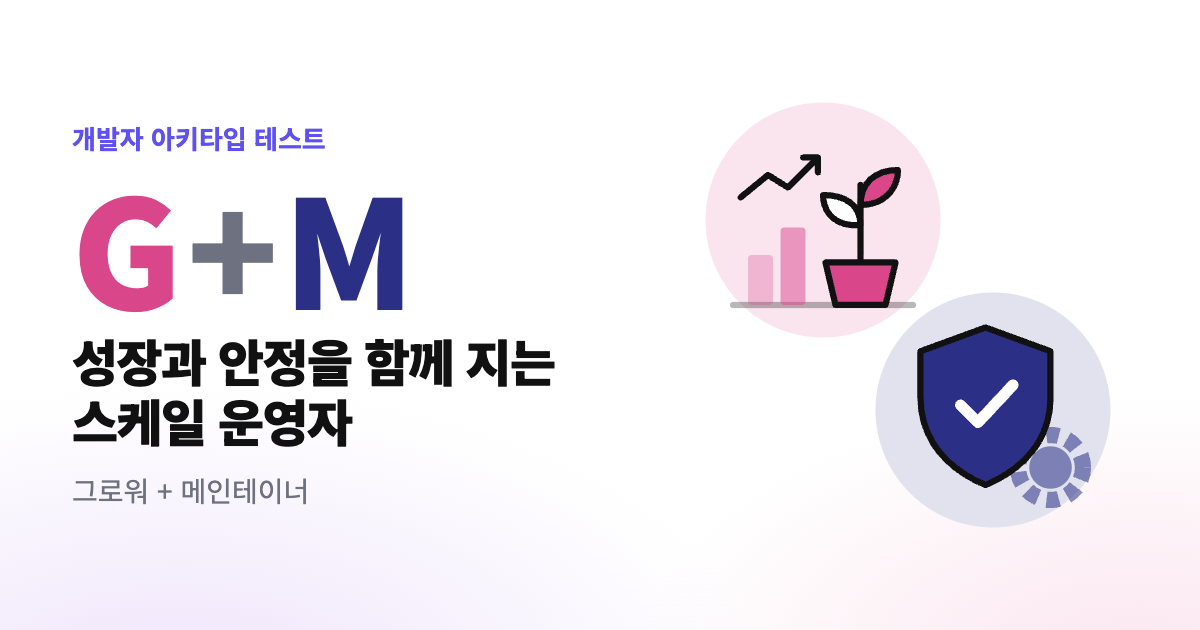
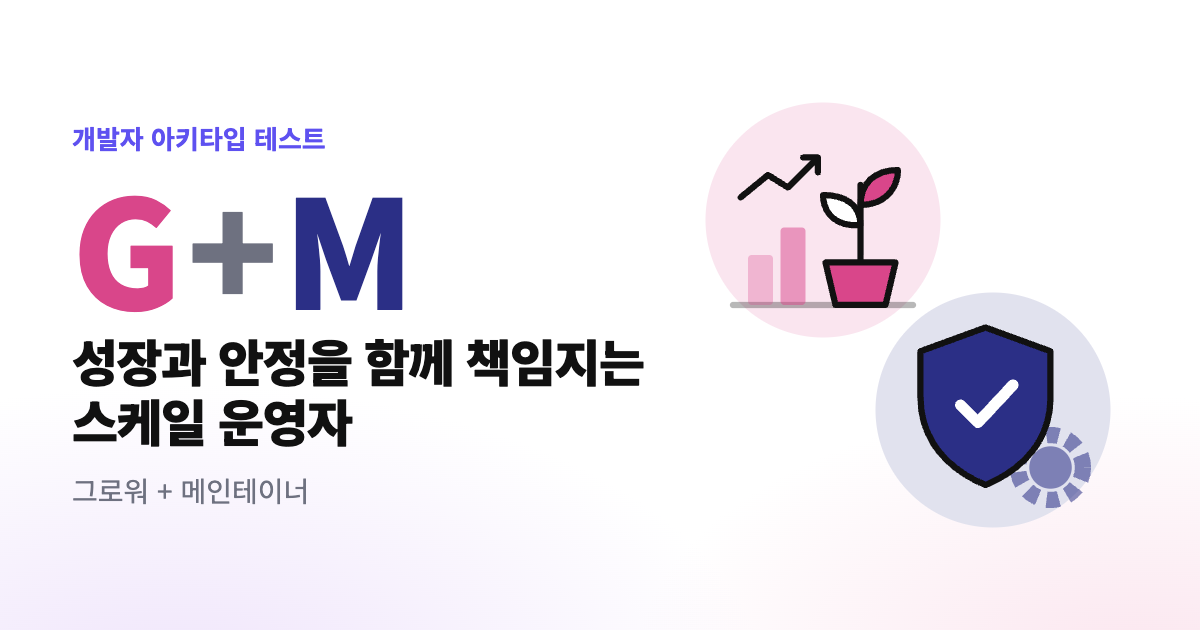
결과 화면 문구 교정

Changed region(s): [[0.37, 0.5429, 0.555, 0.6333]]

diff --git a/index.html b/index.html
@@ -306,17 +306,17 @@ const TYPES = {
       'AI로 프로토타입을 만드는 시간이 며칠에서 몇 시간으로 줄면서, 이 역할의 가치는 "얼마나 빨리 만드나"에서 "무엇을 시도해 볼 만하다고 고르나"로 옮겨 가고 있습니다.'
     ],
     sig: ['토론하기 전에 먼저 만들어서 보여 줍니다', '한 번에 여러 방향을 동시에 시도합니다', '끝낼 때보다 시작할 때 에너지가 큽니다', '새 도구나 기술이 나오면 일단 써 봅니다', '버려지는 실험에 미련이 적고, 아이디어를 내려놓는 데 자존심을 걸지 않습니다'],
-    moments: ['방향이 정해지지 않아 회의가 제자리를 맴돌 때', '새 제품이나 새 시장을 탐색하는 초기 단계', '해커톤처럼 짧은 시간에 많이 시도해야 할 때'],
+    moments: ['방향이 정해지지 않아 회의가 제자리를 맴돌 때', '새 제품이나 새 시장을 탐색하는 초기 단계일 때', '해커톤처럼 짧은 시간에 많이 시도해야 할 때'],
     strengths: ['불확실한 것을 빠르게 확인할 수 있는 것으로 바꿉니다', '팀이 생각하지 못한 선택지를 만들어 냅니다', '추상적인 토론을 구체적인 피드백으로 바꿉니다'],
     risks: ['좋은 아이디어도 끝까지 가져가지 못하고 다음 실험으로 넘어가기 쉽습니다', '만들기 쉬워진 만큼 실험만 쌓이고, 무엇을 배웠는지는 남지 않을 수 있습니다', '자리 잡은 제품에서는 불필요한 기능을 계속 붙이는 쪽으로 에너지가 새기 쉽습니다'],
     tips: ['실험마다 "무엇을 확인하려는가"를 한 줄로 먼저 적어 두세요', '실험이 끝나면 버릴지, 이어 갈지, 넘길지를 분명히 정하세요', '분기에 하나쯤은 완료 기준까지 직접 끌고 가는 연습을 하세요'],
-    mates: { B: '실험 중 될 것을 실제 제품으로 옮겨 줍니다', S: '쌓인 실험 코드와 기능을 정리해 줍니다' } },
+    mates: { B: '가능성이 보이는 실험을 실제 제품으로 옮겨 줍니다', S: '쌓인 실험 코드와 기능을 정리해 줍니다' } },
   B: { no: 2, ko: '빌더', en: 'Builder', c: '--bu',
-    def: '프로토타입이나 아이디어를 빠르게 프로덕션 수준의 제품과 인프라로 만듭니다.',
+    def: '프로토타입이나 아이디어를 빠르게 실제 서비스 수준의 제품과 인프라로 만듭니다.',
     tagline: '돌아가는 데모를 고객이 쓰는 서비스로 바꾸는 사람',
     about: [
       '빌더는 프로토타입이나 정해진 아이디어를 받아, 실제 사용자가 쓸 수 있는 수준의 제품과 인프라로 빠르게 만들어 내는 사람입니다. 데모에는 없던 인증, 권한, 에러 처리, 테스트, 배포, 모니터링을 채워 넣고, 실제 데이터와 트래픽 앞에서 무너지지 않게 만듭니다.',
-      '보리스 체르니의 정의에서 핵심 단어는 "빠르게"와 "프로덕션 수준"입니다. 빠르기만 하면 데모에 머물고, 견고하기만 하면 출시가 늦어집니다. 빌더는 그 둘 사이에서 "지금 출시해도 되는 선"을 판단합니다.',
+      '보리스 체르니의 정의에서 핵심 단어는 "빠르게"와 "실제 서비스 수준"입니다. 빠르기만 하면 데모에 머물고, 견고하기만 하면 출시가 늦어집니다. 빌더는 그 둘 사이에서 "지금 출시해도 되는 선"을 판단합니다.',
       'AI가 반복 코드를 대신 쓰면서, 빌더의 일은 타이핑보다 설계 판단과 검토에 가까워지고 있습니다. 프로토타입이 싸질수록 그것을 실제로 세울 수 있는 사람의 가치는 오히려 커집니다.'
     ],
     sig: ['데모를 실제 데이터와 트래픽에서도 버티게 만듭니다', '보안, 에러 처리, 테스트, 배포를 빼먹지 않습니다', '무엇을 남기고, 다시 만들고, 버릴지 판단합니다', '기술 선택을 일정과 위험에 맞춥니다', '다른 사람이 이어받아도 무너지지 않아야 완료라고 봅니다'],
@@ -326,12 +326,12 @@ const TYPES = {
     tips: ['출시 전에 사용자 신호를 한 번이라도 직접 확인해 보세요', 'AI가 쓴 코드는 실제 데이터와 실패 상황을 기준으로 검토하세요', '출시하며 남긴 부채를 목록으로 적어 동료와 공유하세요'],
     mates: { P: '무엇을 만들지에 대한 선택지를 줍니다', G: '출시한 것이 실제로 쓰이는지 확인해 줍니다' } },
   S: { no: 3, ko: '스위퍼', en: 'Sweeper', c: '--s',
-    def: 'UI를 정리하고, 코드와 시스템을 단순하게 만들고, 기능을 걷어내고, 성능을 최적화합니다.',
+    def: 'UI를 정리하고, 코드와 시스템을 단순하게 만들고, 쓰이지 않는 기능을 걷어내고, 성능을 최적화합니다.',
     tagline: '빼고, 줄이고, 단순하게 만들어 제품을 가볍게 하는 사람',
     about: [
       '스위퍼는 UI를 정리하고, 코드와 시스템을 단순하게 만들고, 쓰이지 않는 기능을 걷어내고, 성능을 끌어올리는 사람입니다. 다른 역할이 무언가를 더할 때, 스위퍼는 무엇을 뺄 수 있는지를 봅니다.',
-      '보리스 체르니가 정리한 팀 구성에서 스위퍼는 새 제품, 성장하는 제품, 자리 잡은 제품 세 단계 모두에 들어가는 유일한 역할입니다. 어느 단계든 복잡도는 쌓이고, 누군가는 그것을 치워야 하기 때문입니다.',
-      'AI 덕분에 코드가 이전보다 훨씬 빨리 늘어나면서, 덜어낼 줄 아는 감각은 더 귀해졌습니다. 무엇을 지워도 되는지는 맥락과 취향이 필요한 판단이라 AI가 대신하기 가장 어려운 일 중 하나입니다.'
+      '보리스 체르니가 정리한 팀 구성에서 스위퍼는 새 제품, 성장하는 제품, 자리 잡은 제품 세 단계 모두에 핵심으로 들어가는 유일한 역할입니다. 어느 단계든 복잡도는 쌓이고, 누군가는 그것을 치워야 하기 때문입니다.',
+      'AI 덕분에 코드가 이전보다 훨씬 빨리 늘어나면서, 덜어낼 줄 아는 감각은 더 귀해졌습니다. 무엇을 지워도 되는지는 맥락과 감각이 필요한 판단이라 AI가 대신하기 어렵습니다.'
     ],
     sig: ['더하기보다 빼서 가치를 만듭니다', '중복, 불필요한 단계, 낡은 결정을 찾아냅니다', '쓰이지 않는 기능을 걷어내자고 먼저 말합니다', '느린 화면과 쿼리를 그냥 지나치지 못합니다', '새 기능 없이도 제품이 나아졌다고 느끼게 만듭니다'],
     moments: ['기능이 너무 많아 사용자가 헷갈려 할 때', '코드베이스가 커져 팀 속도가 눈에 띄게 느려졌을 때', '급하게 출시한 뒤 쌓인 부채를 정리해야 할 때'],
@@ -344,28 +344,28 @@ const TYPES = {
     tagline: '만든 것이 실제로 쓰이게 만드는 사람',
     about: [
       '그로워는 이미 만들어진 제품을 받아, 작은 개선을 반복하며 제품-시장 적합성(PMF)을 끌어올리는 사람입니다. "얼마나 잘 만들었나"보다 "얼마나 잘 쓰이나"를 먼저 묻습니다.',
-      '사용자 행동 데이터를 보고, 고객과 직접 이야기하고, 실험을 설계해 무엇이 가치를 만들고 무엇이 가로막는지 찾아냅니다. 다섯 역할 중 처음으로 시장을 정면으로 마주하는 역할입니다.',
+      '사용자 행동 데이터를 보고, 고객과 직접 이야기하고, 실험을 설계해 무엇이 가치를 만들고 무엇이 가로막는지 찾아냅니다. 다섯 역할 중 시장의 반응을 가장 직접 마주하는 역할입니다.',
       'AI 덕분에 실험 하나를 만드는 비용이 크게 줄면서, 그로워는 더 많은 가설을 더 빨리 검증할 수 있게 됐습니다. 대신 어떤 지표를 믿고 어떤 신호를 흘려보낼지 고르는 판단이 더 중요해졌습니다.'
     ],
     sig: ['출시한 기능이 얼마나 쓰이는지 끝까지 확인합니다', '지표와 사용자 대화로 우선순위를 정합니다', '작은 실험을 빠르게 반복합니다', '사용자가 떠나는 지점을 집요하게 파고듭니다', '문제를 사용자의 언어로 설명합니다'],
     moments: ['제품은 나왔는데 성장이 멈춰 있을 때', '활성화, 리텐션 같은 핵심 지표를 끌어올려야 할 때', '여러 기능 중 무엇에 집중할지 정해야 할 때'],
-    strengths: ['아무도 안 쓰는 훌륭한 제품을 막습니다', '팀의 우선순위를 실제 신호에 맞춥니다', '작은 변경으로 큰 성과를 만듭니다'],
+    strengths: ['잘 만들었는데 아무도 쓰지 않는 제품이 되지 않게 막습니다', '팀의 우선순위를 실제 신호에 맞춥니다', '작은 변경으로 큰 성과를 만듭니다'],
     risks: ['단기 지표에 흔들려 장기 방향을 잃을 수 있습니다', '"사용자가 좋아하는 것 같은" 기능을 계속 붙이면 제품이 복잡해집니다', '지표만 보면 어디서 떨어지는지는 알아도 왜 떨어지는지는 놓치기 쉽습니다'],
     tips: ['지표가 떨어진 이유는 사용자에게 직접 물어 확인하세요', '실험마다 성공 기준과 종료 시점을 미리 정하세요', '제품의 핵심 가치를 해치는 실험은 지표가 좋아도 다시 보세요'],
     mates: { S: '실험으로 늘어난 기능을 정리해 줍니다', M: '성장하는 동안 시스템이 버티게 해 줍니다' } },
   M: { no: 5, ko: '메인테이너', en: 'Maintainer', c: '--m',
-    def: '성숙한 시스템을 책임지고, 규모가 커져도 안전하고 안정적이며 빠르고 효율적이게 만듭니다.',
+    def: '성숙한 시스템을 책임지고, 규모가 커져도 안전하고 안정적이며 빠르고 효율적으로 유지합니다.',
     tagline: '규모가 커져도 시스템이 흔들리지 않게 지키는 사람',
     about: [
-      '메인테이너는 이미 자리 잡은 시스템을 책임지고, 규모가 커져도 안전하고 안정적이며 빠르고 효율적으로 돌아가게 만드는 사람입니다. 관측성, 장애 예방과 복구, 보안, 의존성 업데이트, 비용 관리가 모두 이 역할의 일입니다.',
+      '메인테이너는 이미 자리 잡은 시스템을 책임지고, 규모가 커져도 안전하고 안정적이며 빠르고 효율적으로 돌아가게 만드는 사람입니다. 모니터링, 장애 예방과 복구, 보안, 의존성 업데이트, 비용 관리가 모두 이 역할의 일입니다.',
       '시스템이 조용히 잘 돌아갈 때는 아무도 이 역할을 의식하지 않습니다. 그러다 무언가 멈추는 순간 가장 먼저 찾게 되는 사람입니다. 의존성, 장애 이력, 실패 패턴을 가장 잘 아는 팀의 기억이기도 합니다.',
       'AI가 반복적인 운영 작업은 많이 덜어 주지만, 시스템의 역사와 맥락에서 나오는 판단은 대신하지 못합니다. AI가 만든 코드에 숨은 취약점을 걸러 내는 일도 이 역할에 더해지고 있습니다.'
     ],
-    sig: ['시스템이 조용히 잘 도는 데서 안도감을 느낍니다', '장애가 나면 근본 원인과 재발 방지까지 챙깁니다', '보안 패치와 의존성 업데이트를 미루지 않습니다', '트래픽이 늘면 어디가 먼저 버티지 못할지 압니다', '변경이 기존 사용자와 연동에 줄 영향을 먼저 따집니다'],
-    moments: ['매출이 걸린 핵심 시스템을 맡을 때', '트래픽이 갑자기 늘거나 규모가 크게 커질 때', '반복되는 장애와 늘어나는 인프라 비용을 잡아야 할 때'],
+    sig: ['시스템이 조용히 잘 도는 데서 안도감을 느낍니다', '장애가 나면 근본 원인과 재발 방지까지 챙깁니다', '한 시스템을 오래 맡을수록 더 깊이 파고듭니다', '트래픽이 늘면 어디가 먼저 버티지 못할지 압니다', '변경이 기존 사용자와 연결된 시스템에 줄 영향을 먼저 따집니다'],
+    moments: ['수년째 돌아가는 핵심 시스템을 맡을 때', '트래픽이 갑자기 늘거나 규모가 크게 커질 때', '반복되는 장애와 늘어나는 인프라 비용을 잡아야 할 때'],
     strengths: ['사고를 막아 팀이 다른 일에 집중하게 합니다', '시스템의 역사와 맥락을 가장 깊이 압니다', '비용과 성능을 함께 관리합니다'],
     risks: ['잘 돌아가는 시스템을 지키려다, 꼭 필요한 기술 교체나 구조 개선까지 미루게 될 수 있습니다', '티가 나지 않는 일이라 성과를 설명하기 어렵습니다', '지식이 한 사람에게 몰리면 그 사람이 병목이 됩니다'],
-    tips: ['통제된 변화를 작게, 자주 시도하세요', '막아 낸 장애와 줄인 비용을 숫자로 남기세요', '시스템 지식을 문서와 런북으로 나눠 혼자만 아는 상태를 없애세요'],
+    tips: ['큰 변경은 작게 나눠 자주 배포하세요', '막아 낸 장애와 줄인 비용을 숫자로 남기세요', '시스템 지식을 문서와 런북으로 남겨 혼자만 아는 상태를 없애세요'],
     mates: { S: '오래된 시스템을 함께 단순하게 만듭니다', B: '새 인프라를 세울 때 운영 관점을 처음부터 넣습니다' } }
 };
 const ORDER = ['P', 'B', 'S', 'G', 'M'];
@@ -460,25 +460,25 @@ function stageFit(sc) {
 // 조합마다 이름, 한 줄 설명, 자세한 설명 순서입니다
 const COMBOS = {
   PB: ['0에서 1까지 혼자 가는 창업형', '아이디어를 내고 직접 출시까지 끌고 갑니다. 새 제품 팀의 핵심입니다.',
-    '아이디어를 내는 일과 그것을 실제로 세우는 일을 한 사람이 모두 해냅니다. 그래서 결정과 실행 사이에서 잃는 것이 거의 없습니다. 새 제품을 빠르게 시장에 내보내야 하는 초기 팀에서 가장 큰 힘을 냅니다. 혼자 다 할 수 있는 만큼, 무엇을 버릴지 함께 정리해 줄 동료가 있으면 더 오래 갑니다.'],
+    '생각하는 사람과 만드는 사람이 같아서, 결정과 실행 사이에서 잃는 것이 거의 없습니다. 새 제품을 빠르게 시장에 내보내야 하는 초기 팀에서 가장 큰 힘을 냅니다. 혼자 다 할 수 있는 만큼, 무엇을 버릴지 함께 정리해 줄 동료가 있으면 더 오래 갑니다.'],
   PS: ['많이 만들고 과감히 버리는 실험 큐레이터', '실험을 쏟아내면서도 남길 것과 지울 것을 냉정하게 고릅니다.',
-    '많이 시도하되 남기는 것은 적습니다. 실험을 쏟아내면서도 될 것과 안 될 것을 냉정하게 가르기 때문에, 실험 코드가 쌓여 팀을 느리게 만드는 일이 적습니다. 탐색 단계에서 방향을 빨리 좁혀야 할 때 특히 빛납니다.'],
+    '많이 시도하되 남기는 것은 적습니다. 그래서 실험 코드가 쌓여 팀을 느리게 만드는 일이 적습니다. 탐색 단계에서 방향을 빨리 좁혀야 할 때 특히 빛납니다.'],
   PG: ['아이디어를 숫자로 검증하는 실험 설계자', '새 시도를 지표로 확인하며, 될 아이디어를 빨리 찾아냅니다.',
-    '새 아이디어를 내고, 그것을 데이터로 검증하는 일을 함께 합니다. 감으로 시작하되 숫자로 확인하기 때문에 될 아이디어를 빨리 찾아냅니다. 새 기능 실험이나 성장 실험을 설계하는 자리에 잘 맞습니다.'],
+    '감으로 시작하되 숫자로 확인합니다. 그래서 아이디어를 너무 오래 붙잡고 있거나 너무 빨리 버리는 일이 적습니다. 새 기능 실험이나 성장 실험을 설계하는 자리에 잘 맞습니다.'],
   PM: ['새 기술을 안전하게 들이는 탐험형 수문장', '드문 조합입니다. 새로운 방식을 시도하되 성숙한 시스템을 지키는 선을 압니다.',
-    '서로 반대편에 있는 듯한 두 역할이 함께 있는 드문 조합입니다. 새 기술을 누구보다 먼저 써 보면서도, 그것이 운영 중인 시스템에 줄 위험을 함께 따집니다. 큰 시스템에 새 기술을 안전하게 들여와야 하는 플랫폼 팀이나 인프라 팀에서 귀하게 쓰입니다.'],
+    '서로 반대편에 있는 듯한 두 역할이 함께 있습니다. 새 기술을 누구보다 먼저 써 보면서도, 그것이 운영 중인 시스템에 줄 위험을 함께 따집니다. 큰 시스템에 새 기술을 안전하게 들여와야 하는 플랫폼 팀이나 인프라 팀에서 귀하게 쓰입니다.'],
   BS: ['빠르면서 깔끔한 장인형 빌더', '빠르게 출시하면서도 뒤에 남는 부채를 스스로 줄입니다.',
-    '빠르게 만들면서도 뒤에 남는 것을 스스로 정리합니다. 출시 속도와 코드 품질 중 한쪽을 포기하지 않기 때문에, 함께 일하는 사람이 이어받기 편한 결과물을 남깁니다. 새 제품부터 자리 잡은 제품까지 어느 단계에서든 쓸모가 큰 조합입니다.'],
+    '출시 속도와 코드 품질 중 한쪽을 포기하지 않기 때문에, 함께 일하는 사람이 이어받기 편한 결과물을 남깁니다. 새 제품부터 자리 잡은 제품까지 어느 단계에서든 쓸모가 큰 조합입니다.'],
   BG: ['출시하고 키우는 그로스 엔지니어', '기능을 내보내고, 반응을 보며 다시 만듭니다. 성장하는 팀이 가장 원하는 조합입니다.',
-    '기능을 내보내고, 반응을 보고, 다시 만드는 과정을 혼자서 빠르게 돌립니다. 만드는 손과 지표를 보는 눈을 함께 갖고 있어서 성장 단계 팀이 가장 원하는 조합입니다. 실험이 쌓여 복잡해지지 않도록 정리하는 습관을 더하면 더 강해집니다.'],
-  BM: ['세우고 오래 지키는 플랫폼 엔지니어', '인프라를 처음 세우는 일과 그것을 오래 굴리는 일을 모두 해냅니다.',
-    '새 인프라를 세우는 일과 그것을 오래 굴리는 일을 모두 해냅니다. 처음 설계할 때부터 운영과 장애 대응을 염두에 두기 때문에, 만들어 놓고 나중에 고생하는 일이 적습니다. 사내 플랫폼이나 공용 인프라를 맡는 자리에 잘 맞습니다.'],
-  SG: ['덜어내며 PMF를 올리는 제품 다듬이', '더하는 대신 빼서 제품이 더 잘 쓰이게 만듭니다.',
-    '무언가를 더하는 대신 빼서 제품을 더 잘 쓰이게 만듭니다. 사용자 데이터로 무엇이 필요 없는지 근거를 찾고, 그것을 실제로 걷어냅니다. 기능이 많아져 사용자가 헷갈려 하는 제품을 다시 가볍게 만들 때 가장 빛납니다.'],
+    '만드는 손과 지표를 보는 눈을 함께 갖고 있어서, 출시하고 반응을 보고 다시 만드는 과정을 혼자서 빠르게 돌립니다. 실험이 쌓여 복잡해지지 않도록 정리하는 습관을 더하면 더 강해집니다.'],
+  BM: ['세우고 오래 지키는 플랫폼 엔지니어', '인프라를 처음 세우는 일과 그것을 오래 운영하는 일을 모두 해냅니다.',
+    '처음 설계할 때부터 운영과 장애 대응을 염두에 두기 때문에, 만들어 놓고 나중에 고생하는 일이 적습니다. 사내 플랫폼이나 공용 인프라를 맡는 자리에 잘 맞습니다.'],
+  SG: ['덜어내며 PMF를 올리는 미니멀리스트', '더하는 대신 빼서 제품이 더 잘 쓰이게 만듭니다.',
+    '사용자 데이터로 무엇이 필요 없는지 근거를 찾고, 그것을 실제로 걷어냅니다. 기능이 많아져 사용자가 헷갈려 하는 제품을 다시 가볍게 만들 때 가장 빛납니다.'],
   SM: ['성숙한 시스템의 정원사', '커진 시스템을 단순하고, 빠르고, 안전하게 유지합니다.',
-    '커진 시스템을 단순하고, 빠르고, 안전하게 유지합니다. 지켜야 할 것과 치워야 할 것을 함께 볼 수 있어서, 레거시를 무작정 지키지도 무작정 갈아엎지도 않습니다. 오래된 핵심 시스템을 맡은 팀에서 큰 신뢰를 받는 조합입니다.'],
-  GM: ['성장과 안정을 함께 지는 스케일 운영자', '커지는 제품의 지표와 안정성을 동시에 책임집니다.',
-    '커지는 제품의 지표와 안정성을 동시에 책임집니다. 성장 기회를 놓치지 않으면서도 그 성장이 시스템을 무너뜨리지 않게 지킵니다. 사용자가 빠르게 늘어나는 자리 잡은 제품에서 꼭 필요한 조합입니다.']
+    '지켜야 할 것과 치워야 할 것을 함께 볼 수 있어서, 레거시를 무작정 지키지도 무작정 갈아엎지도 않습니다. 오래된 핵심 시스템을 맡은 팀에서 큰 신뢰를 받는 조합입니다.'],
+  GM: ['성장과 안정을 함께 책임지는 스케일 운영자', '커지는 제품의 지표와 안정성을 동시에 책임집니다.',
+    '성장 기회를 놓치지 않으면서도 그 성장이 시스템을 무너뜨리지 않게 지킵니다. 사용자가 빠르게 늘어나는 자리 잡은 제품에서 꼭 필요한 조합입니다.']
 };
 
 // 역할별 일러스트입니다. --c 는 역할 색입니다
@@ -725,7 +725,7 @@ function renderResult(shared, quiet) {
   if (combo) [title, desc] = combo;
   else {
     title = `${TYPES[picked[0]].ko} 중심형`;
-    desc = `${TYPES[picked[0]].ko} 성향이 다른 역할보다 뚜렷하게 앞섭니다. 나머지 역할은 모두 평균에 못 미칩니다.`;
+    desc = `${TYPES[picked[0]].ko} 성향이 다른 역할보다 뚜렷하게 앞섭니다. 다른 역할 성향은 상대적으로 약하게 나왔습니다.`;
   }
   if (sc[picked[0]] < 56) {
     title = '다섯 역할 균형형';

diff --git a/r/BM.html b/r/BM.html
@@ -4,7 +4,7 @@
 <meta charset="utf-8">
 <meta name="viewport" content="width=device-width, initial-scale=1">
 <title>나의 개발자 아키타입은 B+M, 세우고 오래 지키는 플랫폼 엔지니어</title>
-<meta name="description" content="빌더 + 메인테이너. 인프라를 처음 세우는 일과 그것을 오래 굴리는 일을 모두 해냅니다. 30문항으로 나의 역할도 알아보세요.">
+<meta name="description" content="빌더 + 메인테이너. 인프라를 처음 세우는 일과 그것을 오래 운영하는 일을 모두 해냅니다. 30문항으로 나의 역할도 알아보세요.">
 <meta name="robots" content="noindex">
 <link rel="canonical" href="https://77hdumat.github.io/dev-archetype/">
 <meta property="og:type" content="website">
@@ -12,13 +12,13 @@
 <meta property="og:locale" content="ko_KR">
 <meta property="og:url" content="https://77hdumat.github.io/dev-archetype/r/BM.html">
 <meta property="og:title" content="나의 개발자 아키타입은 B+M, 세우고 오래 지키는 플랫폼 엔지니어">
-<meta property="og:description" content="빌더 + 메인테이너. 인프라를 처음 세우는 일과 그것을 오래 굴리는 일을 모두 해냅니다. 30문항으로 나의 역할도 알아보세요.">
+<meta property="og:description" content="빌더 + 메인테이너. 인프라를 처음 세우는 일과 그것을 오래 운영하는 일을 모두 해냅니다. 30문항으로 나의 역할도 알아보세요.">
 <meta property="og:image" content="https://77hdumat.github.io/dev-archetype/og/BM.png">
 <meta property="og:image:width" content="1200">
 <meta property="og:image:height" content="630">
 <meta name="twitter:card" content="summary_large_image">
 <meta name="twitter:title" content="나의 개발자 아키타입은 B+M, 세우고 오래 지키는 플랫폼 엔지니어">
-<meta name="twitter:description" content="빌더 + 메인테이너. 인프라를 처음 세우는 일과 그것을 오래 굴리는 일을 모두 해냅니다. 30문항으로 나의 역할도 알아보세요.">
+<meta name="twitter:description" content="빌더 + 메인테이너. 인프라를 처음 세우는 일과 그것을 오래 운영하는 일을 모두 해냅니다. 30문항으로 나의 역할도 알아보세요.">
 <meta name="twitter:image" content="https://77hdumat.github.io/dev-archetype/og/BM.png">
 <script>location.replace('../' + location.search);</script>
 </head>

diff --git a/r/GM.html b/r/GM.html
@@ -3,7 +3,7 @@
 <head>
 <meta charset="utf-8">
 <meta name="viewport" content="width=device-width, initial-scale=1">
-<title>나의 개발자 아키타입은 G+M, 성장과 안정을 함께 지는 스케일 운영자</title>
+<title>나의 개발자 아키타입은 G+M, 성장과 안정을 함께 책임지는 스케일 운영자</title>
 <meta name="description" content="그로워 + 메인테이너. 커지는 제품의 지표와 안정성을 동시에 책임집니다. 30문항으로 나의 역할도 알아보세요.">
 <meta name="robots" content="noindex">
 <link rel="canonical" href="https://77hdumat.github.io/dev-archetype/">
@@ -11,13 +11,13 @@
 <meta property="og:site_name" content="개발자 아키타입 테스트">
 <meta property="og:locale" content="ko_KR">
 <meta property="og:url" content="https://77hdumat.github.io/dev-archetype/r/GM.html">
-<meta property="og:title" content="나의 개발자 아키타입은 G+M, 성장과 안정을 함께 지는 스케일 운영자">
+<meta property="og:title" content="나의 개발자 아키타입은 G+M, 성장과 안정을 함께 책임지는 스케일 운영자">
 <meta property="og:description" content="그로워 + 메인테이너. 커지는 제품의 지표와 안정성을 동시에 책임집니다. 30문항으로 나의 역할도 알아보세요.">
 <meta property="og:image" content="https://77hdumat.github.io/dev-archetype/og/GM.png">
 <meta property="og:image:width" content="1200">
 <meta property="og:image:height" content="630">
 <meta name="twitter:card" content="summary_large_image">
-<meta name="twitter:title" content="나의 개발자 아키타입은 G+M, 성장과 안정을 함께 지는 스케일 운영자">
+<meta name="twitter:title" content="나의 개발자 아키타입은 G+M, 성장과 안정을 함께 책임지는 스케일 운영자">
 <meta name="twitter:description" content="그로워 + 메인테이너. 커지는 제품의 지표와 안정성을 동시에 책임집니다. 30문항으로 나의 역할도 알아보세요.">
 <meta name="twitter:image" content="https://77hdumat.github.io/dev-archetype/og/GM.png">
 <script>location.replace('../' + location.search);</script>

diff --git a/r/SG.html b/r/SG.html
@@ -3,7 +3,7 @@
 <head>
 <meta charset="utf-8">
 <meta name="viewport" content="width=device-width, initial-scale=1">
-<title>나의 개발자 아키타입은 S+G, 덜어내며 PMF를 올리는 제품 다듬이</title>
+<title>나의 개발자 아키타입은 S+G, 덜어내며 PMF를 올리는 미니멀리스트</title>
 <meta name="description" content="스위퍼 + 그로워. 더하는 대신 빼서 제품이 더 잘 쓰이게 만듭니다. 30문항으로 나의 역할도 알아보세요.">
 <meta name="robots" content="noindex">
 <link rel="canonical" href="https://77hdumat.github.io/dev-archetype/">
@@ -11,13 +11,13 @@
 <meta property="og:site_name" content="개발자 아키타입 테스트">
 <meta property="og:locale" content="ko_KR">
 <meta property="og:url" content="https://77hdumat.github.io/dev-archetype/r/SG.html">
-<meta property="og:title" content="나의 개발자 아키타입은 S+G, 덜어내며 PMF를 올리는 제품 다듬이">
+<meta property="og:title" content="나의 개발자 아키타입은 S+G, 덜어내며 PMF를 올리는 미니멀리스트">
 <meta property="og:description" content="스위퍼 + 그로워. 더하는 대신 빼서 제품이 더 잘 쓰이게 만듭니다. 30문항으로 나의 역할도 알아보세요.">
 <meta property="og:image" content="https://77hdumat.github.io/dev-archetype/og/SG.png">
 <meta property="og:image:width" content="1200">
 <meta property="og:image:height" content="630">
 <meta name="twitter:card" content="summary_large_image">
-<meta name="twitter:title" content="나의 개발자 아키타입은 S+G, 덜어내며 PMF를 올리는 제품 다듬이">
+<meta name="twitter:title" content="나의 개발자 아키타입은 S+G, 덜어내며 PMF를 올리는 미니멀리스트">
 <meta name="twitter:description" content="스위퍼 + 그로워. 더하는 대신 빼서 제품이 더 잘 쓰이게 만듭니다. 30문항으로 나의 역할도 알아보세요.">
 <meta name="twitter:image" content="https://77hdumat.github.io/dev-archetype/og/SG.png">
 <script>location.replace('../' + location.search);</script>
